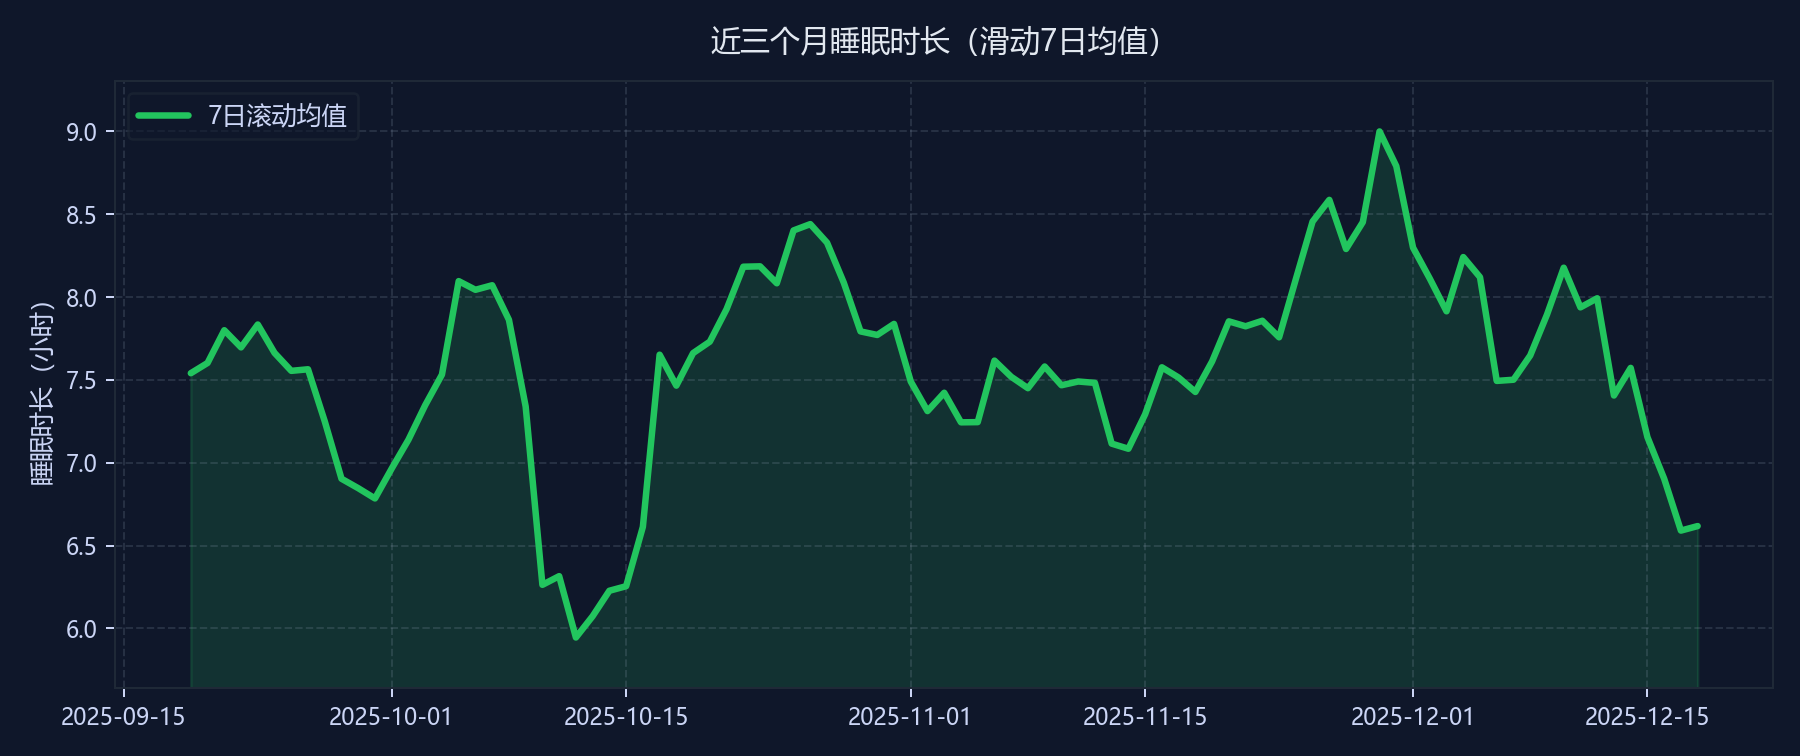
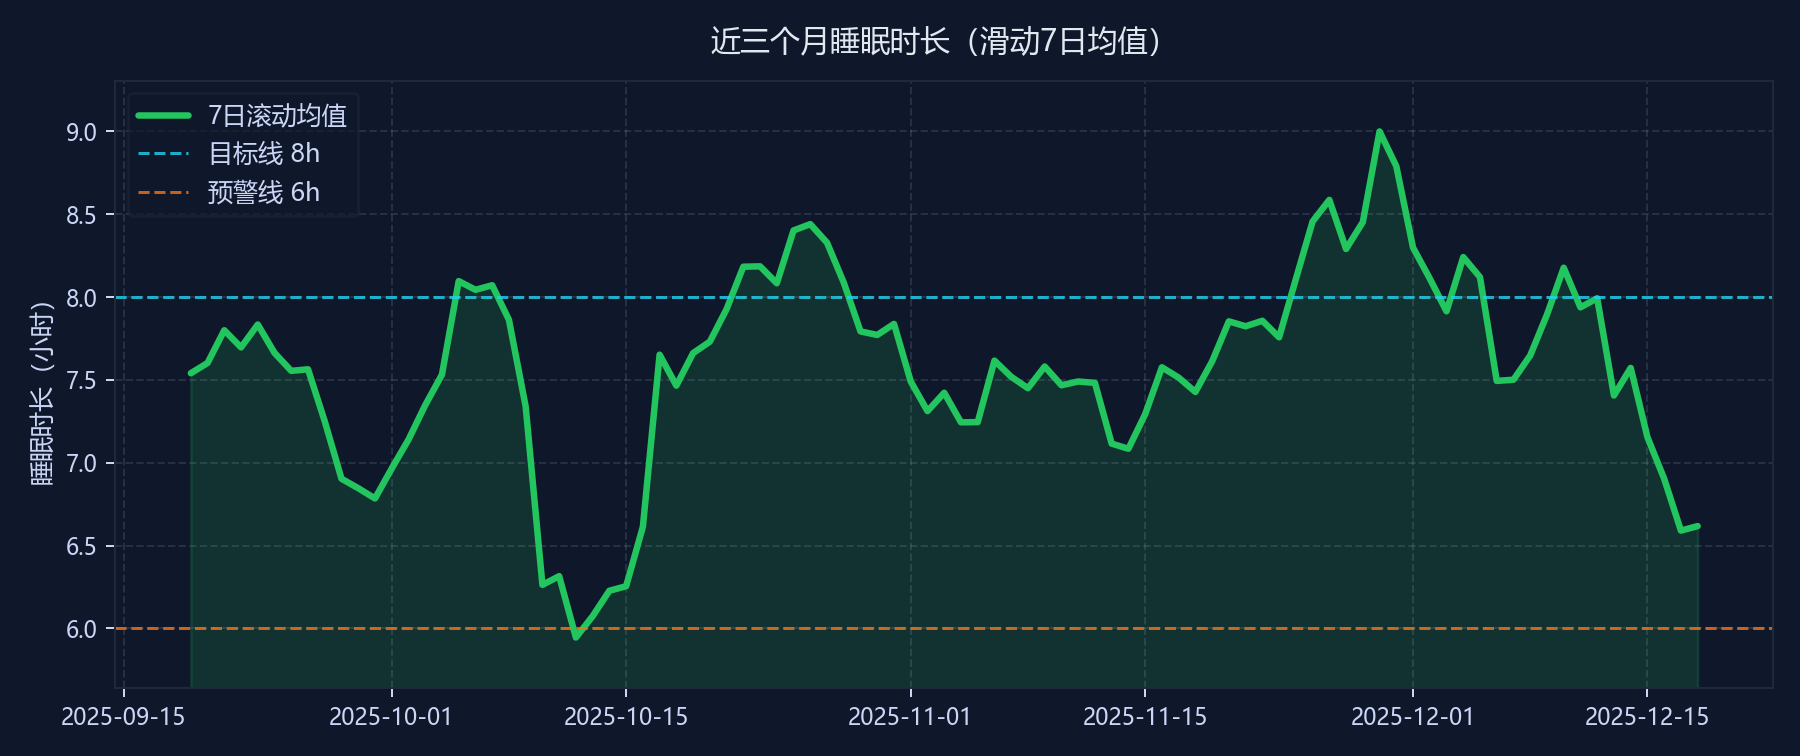
feat:add-guidelines

diff --git a/health/plot_trends.py b/health/plot_trends.py
@@ -19,7 +19,16 @@ plt.rcParams["font.family"] = ["Microsoft YaHei", "SimHei", "sans-serif"]
 plt.rcParams["axes.unicode_minus"] = False
 
 
-def render_series(dates, values, title, outfile, color_line, color_fill, ylabel):
+def render_series(
+    dates,
+    values,
+    title,
+    outfile,
+    color_line,
+    color_fill,
+    ylabel,
+    guide_lines=None,
+):
     fig, ax = plt.subplots(figsize=(10, 4.2))
     fig.patch.set_facecolor("#0f172a")
     ax.set_facecolor("#0f172a")
@@ -40,6 +49,20 @@ def render_series(dates, values, title, outfile, color_line, color_fill, ylabel)
     )
     ax.fill_between(dates, values, lower, color=color_fill, alpha=0.16)
     ax.set_ylim(lower, upper)
+
+    if guide_lines:
+        for gl in guide_lines:
+            val = gl.get("value")
+            if val is None:
+                continue
+            ax.axhline(
+                y=val,
+                color=gl.get("color", "#94a3b8"),
+                linestyle=gl.get("linestyle", "--"),
+                linewidth=1.2,
+                alpha=0.8,
+                label=gl.get("label"),
+            )
 
     ax.set_title(title, color="#e2e8f0", pad=12)
     ax.set_xlabel("")
@@ -106,6 +129,10 @@ def plot_sleep():
         "#22c55e",
         "#22c55e",
         "睡眠时长（小时）",
+        guide_lines=[
+            {"value": 8, "color": "#22d3ee", "label": "目标线 8h"},
+            {"value": 6, "color": "#f97316", "label": "预警线 6h"},
+        ],
     )
 
 
@@ -128,6 +155,10 @@ def plot_weight():
         "#fbbf24",
         "#fbbf24",
         "体重（kg）",
+        guide_lines=[
+            {"value": 70, "color": "#22d3ee", "label": "目标线 70kg"},
+            {"value": 80, "color": "#f97316", "label": "预警线 80kg"},
+        ],
     )
 
 
